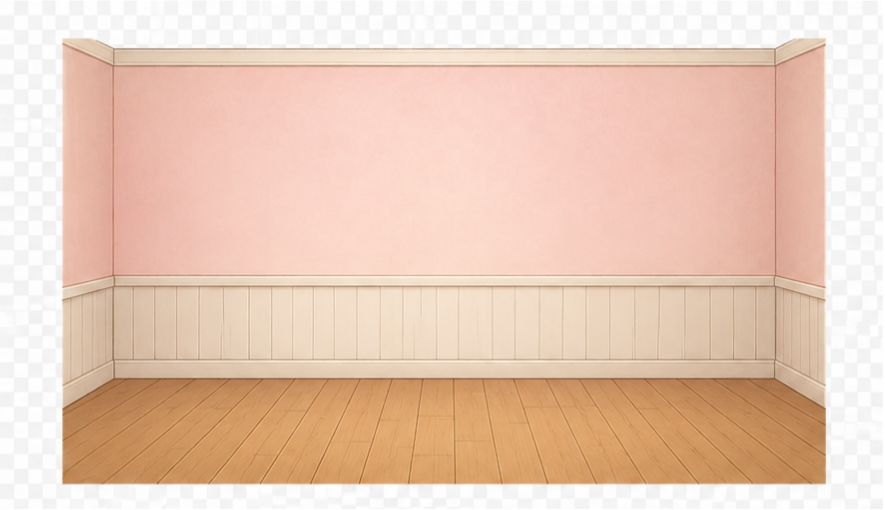
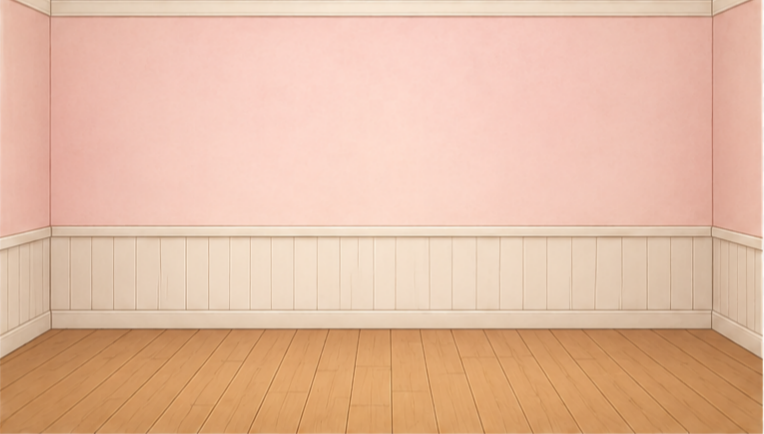
added two moods and fixed the position of the assets

diff --git a/script.js b/script.js
@@ -1,39 +1,31 @@
-const moods = {
-    happy:{
-        lighting:"Bright Sunshine",
-        music:"Indie Pop",
-        drink:"Iced Coffee",
-        scent:"Citrus"
-    },
-    stressed:{
-        lighting:"Warm Amber",
-        music:"Lo-fi Rain",
-        drink:"Chamomile Tea",
-        scent:"Lavender"
-    },
-    sleepy:{       
-        lighting:"Moonlight",
-        music:"Soft Piano",
-        drink:"Hot Chocolate",
-        scent:"Vanilla"
-    },
-    creative:{
-        lighting:"Purple LEDs",
-        music:"Jazz",
-        drink:"Matcha Latte",
-        scent:"Peppermint"
-    },
-    productive:{
-        lighting:"Cool White",
-        music:"Focus Beats",
-        drink:"Espresso",
-        scent:"Eucalyptus"
-    }
+const moods={
+happy:{
+wallpaper:"assets/room/wallpaper-pink.png",
+window:"assets/weather/sunny.png",
+drink:"assets/drinks/coffee.png",
+overlay:"rgba(255,220,120,.08)",
+lighting:"Bright Sunshine",
+music:"Indie Pop",
+scent:"Citrus"
+},
+stressed:{
+wallpaper:"assets/room/wallpaper-beige.png",
+window:"assets/weather/rain.png",
+drink:"assets/drinks/tea.png",
+overlay:"rgba(255,180,80,.12)",
+lighting:"Warm Amber",
+music:"Lo-fi Rain",
+scent:"Lavender"
+}
 };
 const buttons = document.querySelectorAll(".mood-btn");
 buttons.forEach(button=>{
     button.addEventListener("click",()=>{
         const mood = moods[button.dataset.mood];
+        wallpaper.src=mood.wallpaper;
+        window.src=mood.window;
+        drinkImg.src=mood.drink;
+        lightingOverlay.style.background=mood.overlay;
         document.getElementById("lighting").innerHTML =
         mood.lighting;
         document.getElementById("music").innerHTML =

diff --git a/index.html b/index.html
@@ -35,18 +35,15 @@
 </div>
 <div class="room-container">
     <div class="room">
-        <img src="assets/room/room-background.png"
-             class="layer background">
-        <img src="assets/room/window.png"
-             class="layer window">
-        <img src="assets/room/curtains.png"
-             class="layer curtains">
-<img src="assets/furniture/bed.png" class="layer bed">
+        <div id="lightingOverlay"></div>
+<img id="wallpaper" src="assets/room/room-background.png" class="layer wallpaper">
+<img id="window" src="assets/weather/sunny.png" class="layer window">
+<img id="bed" src="assets/furniture/bed.png" class="layer bed">
+<img id="desk" src="assets/furniture/desk.png" class="layer desk">
+<img id="plant" src="assets/furniture/plant.png" class="layer plant">
+<img id="lamp" src="assets/furniture/lamp.png" class="layer lamp">
 <img src="assets/furniture/rug.png" class="layer rug">
-<img src="assets/furniture/desk.png" class="layer desk">
 <img src="assets/furniture/chair.png" class="layer chair">
-<img src="assets/furniture/lamp.png" class="layer lamp">
-<img src="assets/furniture/plant.png" class="layer plant">
     </div>
 </div>
 </div>

diff --git a/style.css b/style.css
@@ -30,8 +30,9 @@ body{
 }
 .desk{
     width:260px;
-    left:120px;
-    top:330px;
+    left:90px;
+    top:210px;
+    z-index:3;
 }
 .chair{
     width:120px;
@@ -44,9 +45,10 @@ body{
     top:180px;
 }
 .plant{
-    width:110px;
-    left:70px;
-    top:310px;
+    width:90px;
+    left:50px;
+    top:250px;
+    z-index:2;
 }
 .app{
     display: flex;
@@ -106,4 +108,14 @@ body{
 }
 .recommendations p{
     margin-top:12px;
+}
+#lightingOverlay{
+    position:absolute;
+    inset:0;
+    background:transparent;
+    transition:.6s;
+    pointer-events:none;
+}
+.layer{
+transition:.6s ease;
 }
